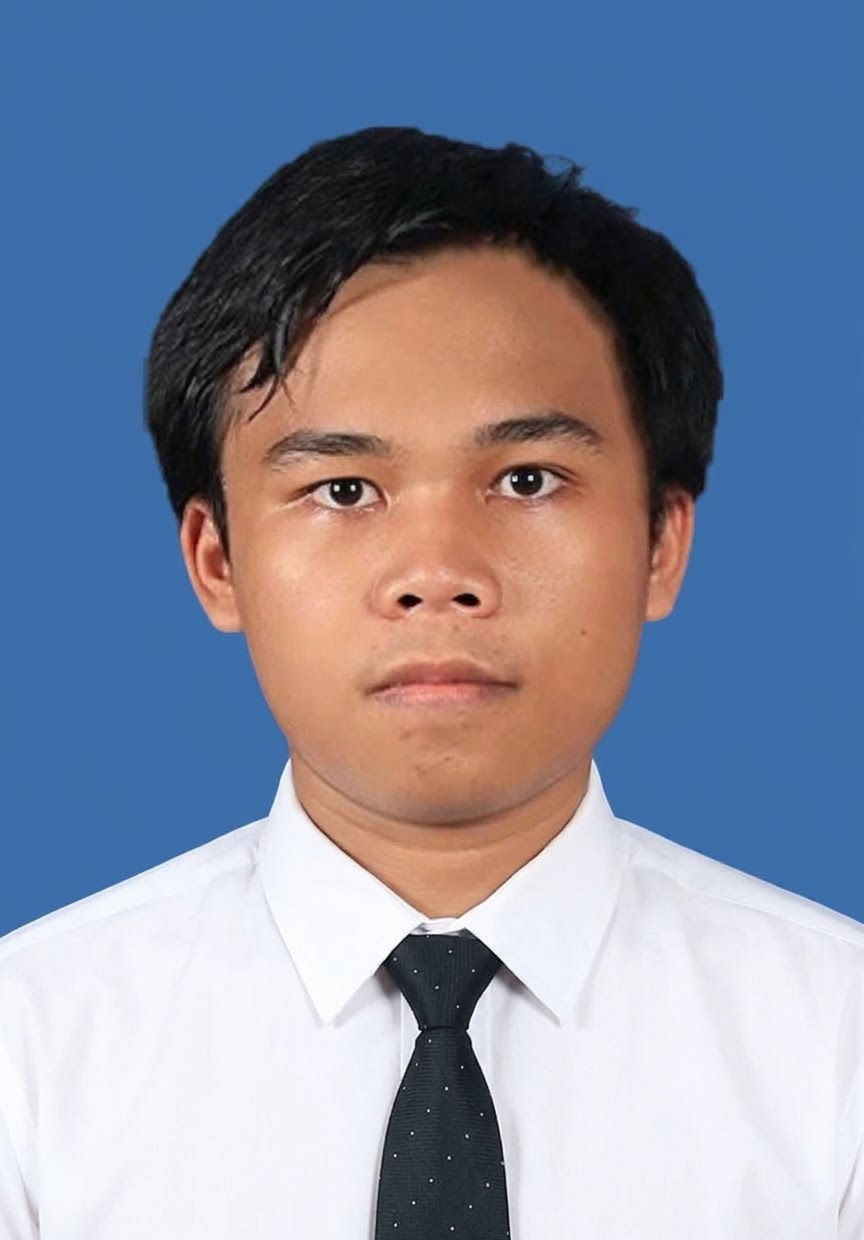
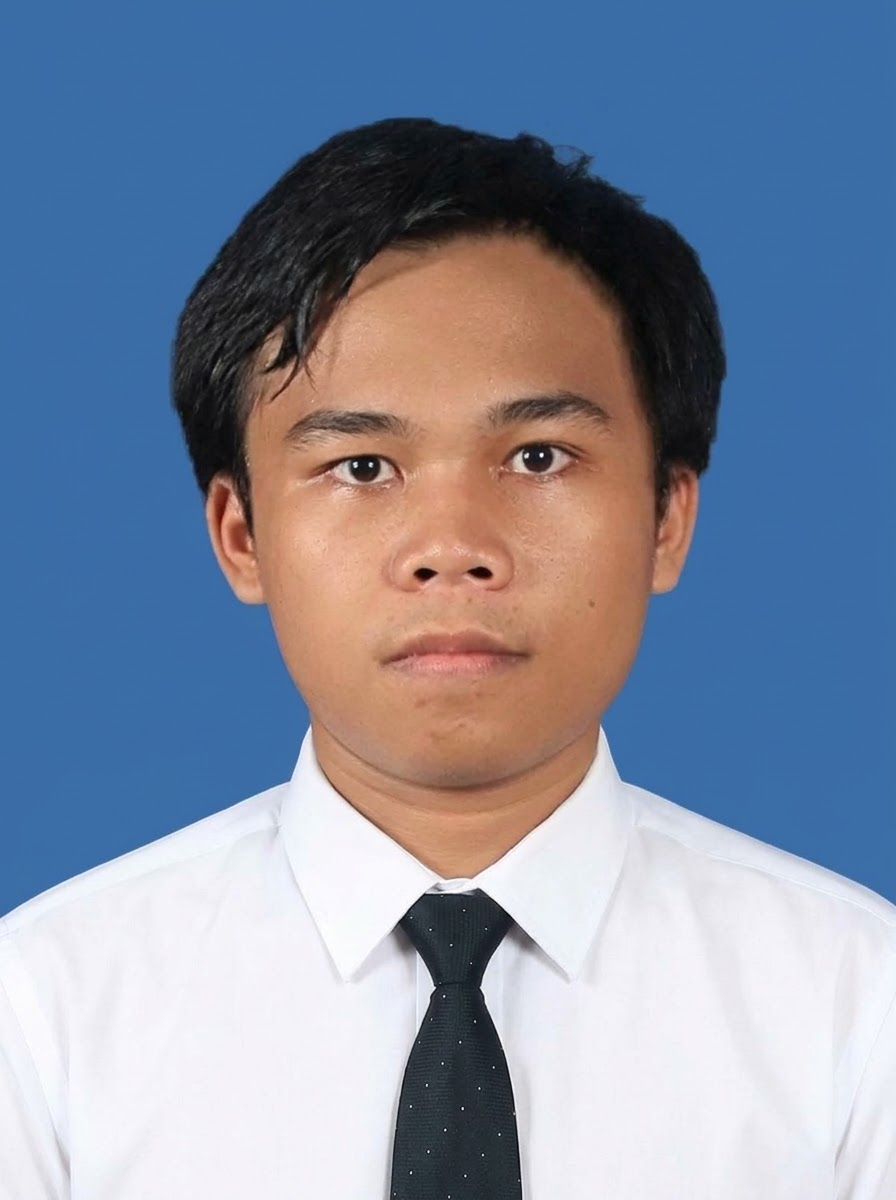
update

diff --git a/index.html b/index.html
@@ -131,7 +131,7 @@
                                 129.362C2.45775 97.8511 -7.48481 59.1033 6.67581 34.5279C20.9871 10.1032 59.7028 
                                 -0.149132 97.9666 0.00163737C136.23 0.303176 174.193 10.857 190.312 36.4879Z" />
 
-                                <image class="home__blob-img" x="10" y="10" z="10" href="assets/img/poto.png" />
+                                <image class="home__blob-img" x="10" y="10" z="10" href="assets/img/poto1.jpeg" />
                             </g>
                         </svg>
                     </div>
